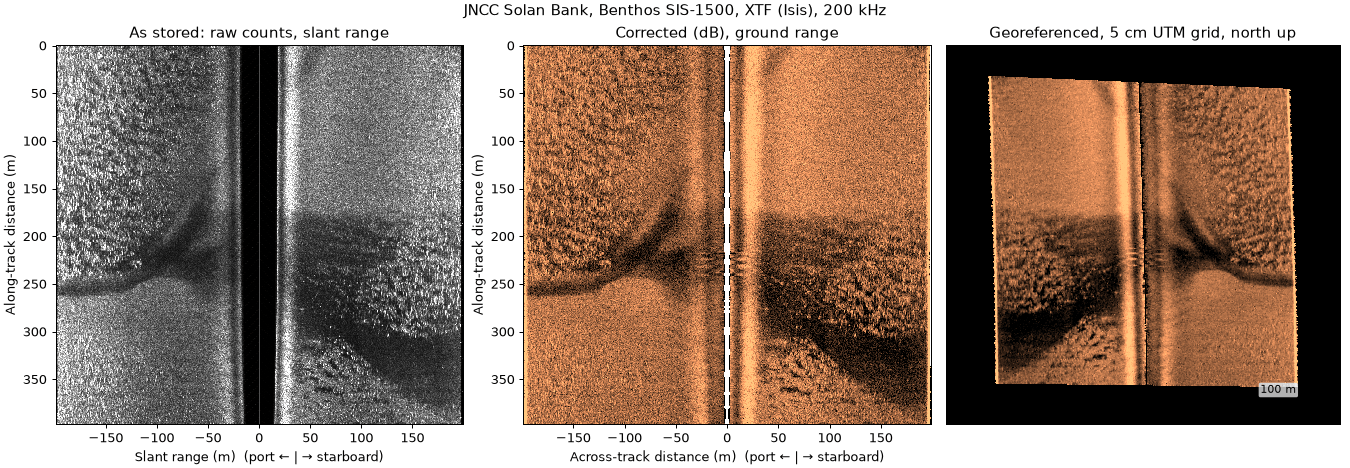
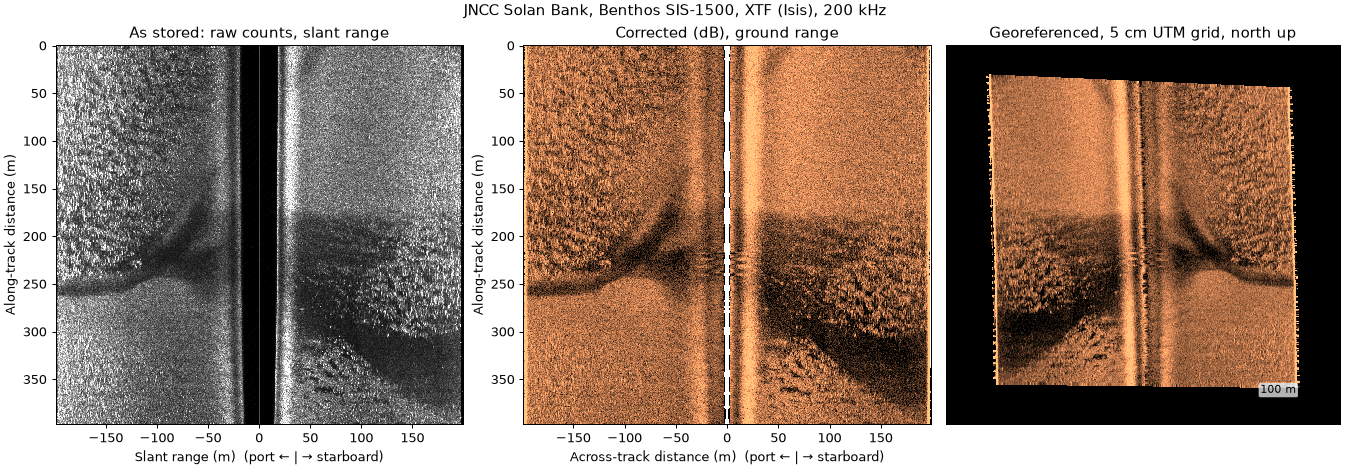
docs(datasets): grid the maps by linear interpolation
The georeferenced panel now grids each section with scipy griddata
(linear) instead of IDW, which averaged a disk of samples into every
5 cm cell and smoothed away detail finer than the ping spacing.

- Cells within twice the 95th-percentile ping step of a sample are
  filled; the single step left rows of empty cells where pings fan out.
- The grid is averaged down to about 800 cells across for drawing; a
  5 cm grid of a 400 m swath drawn into a few hundred pixels aliased
  into speckle.
- Captions name the method. All nine figures regenerated.

Changed region(s): [[0.7156, 0.1496, 0.9644, 0.8376]]

diff --git a/docs/_scripts/public_datasets_figures.py b/docs/_scripts/public_datasets_figures.py
@@ -29,7 +29,9 @@ The figure, same pings in every panel:
 - Corrected: after steps 2-5, dB, against across-track ground range.
 - Georeferenced: the section gridded on UTM at
   :func:`sidescanpy.grids.recommend_resolution` (half the finer native
-  spacing, at least 5 cm), north up.
+  spacing, at least 5 cm) by linear interpolation between the samples
+  (``scipy.interpolate.griddata``), north up, averaged down to the
+  panel's resolution for drawing.
 
 For each dataset it also writes ``<name>_caption.md``, the compact list
 of corrections and parameters taken from the processing history, which
@@ -66,7 +68,14 @@ from sidescanpy.analysis import measure_ping_geometry  # noqa: E402
 from sidescanpy.analysis.characterize import characterize_values, infer_units  # noqa: E402
 from sidescanpy.core.history import read_history  # noqa: E402
 from sidescanpy.core.units import FLOOR_DB  # noqa: E402
-from sidescanpy.grids import grid_channel, recommend_resolution  # noqa: E402
+from sidescanpy.export.geometric_window import interpolate_scattered  # noqa: E402
+from sidescanpy.grids import (  # noqa: E402
+    GridDefinition,
+    SideScanGriddedRaster,
+    bbox_from_channel_dataset,
+    recommend_resolution,
+    utm_grid_from_wgs84_bbox,
+)
 from sidescanpy.io import read_and_convert  # noqa: E402
 from sidescanpy.log import configure_logging  # noqa: E402
 from sidescanpy.processing import (  # noqa: E402
@@ -211,6 +220,52 @@ def pick_section(ds, swath_m, target=None):
     return slice(int(sel[0]), int(sel[-1]) + 1), how
 
 
+def grid_linear(part, cell, max_fill_m):
+    """Grid a section on UTM by linear interpolation between its samples.
+
+    ``scipy.interpolate.griddata`` (through
+    :func:`sidescanpy.export.geometric_window.interpolate_scattered`), so
+    each cell takes its value from the samples around it without
+    averaging them, which keeps the detail at cells finer than the ping
+    spacing. Cells farther than ``max_fill_m`` from every sample are NaN.
+    """
+    grid_def = utm_grid_from_wgs84_bbox(bbox_from_channel_dataset(part), resolution_m=cell)
+    values = part["backscatter_intensity"].values.astype(np.float64).ravel()
+    lat = part["latitude_per_sample"].values.astype(np.float64).ravel()
+    lon = part["longitude_per_sample"].values.astype(np.float64).ravel()
+    ok = np.isfinite(values) & np.isfinite(lat) & np.isfinite(lon)
+    easting, northing = pyproj.Transformer.from_crs("EPSG:4326", grid_def.crs, always_xy=True).transform(
+        lon[ok], lat[ok])
+    ys, xs = grid_def.get_grid_centers()
+    grid = interpolate_scattered(np.column_stack([northing, easting]), values[ok],
+                                 np.column_stack([ys.ravel(), xs.ravel()]), interp_method="linear",
+                                 max_fill_distance_m=max_fill_m).reshape(ys.shape)
+    return SideScanGriddedRaster(grid_def=grid_def, backscatter=grid, units="dB")
+
+
+def for_display(raster, max_cells=800):
+    """Average a fine grid down to about ``max_cells`` across, for drawing.
+
+    A 5 cm grid of a 400 m swath is 8000 cells across; drawn into a panel
+    a few hundred pixels wide, matplotlib shows one cell in twenty and the
+    texture aliases into speckle. Block means (NaN ignored) keep it, as
+    the waterfall panels' coarsening does.
+    """
+    grid = np.asarray(raster.backscatter)
+    k = int(np.ceil(max(grid.shape) / max_cells))
+    if k <= 1:
+        return raster
+    rows, cols = grid.shape[0] // k, grid.shape[1] // k
+    with warnings.catch_warnings():
+        warnings.simplefilter("ignore", RuntimeWarning)   # all-NaN blocks off the swath
+        means = np.nanmean(grid[:rows * k, :cols * k].reshape(rows, k, cols, k), axis=(1, 3))
+    south, west, _, _ = raster.grid_def.bbox            # projected; row 0 is the south edge
+    res = raster.grid_def.resolution_m * k
+    grid_def = GridDefinition((south, west, south + rows * res, west + cols * res), res,
+                              crs=raster.grid_def.crs)
+    return SideScanGriddedRaster(grid_def=grid_def, backscatter=means, units="dB")
+
+
 def cell_size(part):
     """Finest useful cell: half the finer native spacing, 5 cm to 1 m."""
     r = recommend_resolution(part)
@@ -239,7 +294,7 @@ def caption(ds, section, raw_units, cell, utm, how, name):
     pings = f"pings {section.start}-{section.stop - 1} of {ds.sizes['ping']}"
     return (f"**Raw:** {raw_units}, as stored, slant range. "
             f"**Corrected:** {'; '.join(steps)}. "
-            f"**Georeferenced:** {utm}, {cell * 100:.0f} cm cells. "
+            f"**Georeferenced:** {utm}, {cell * 100:.0f} cm cells, linear interpolation. "
             f"**Section:** {pings}, {how}. "
             f"**Code:** [`public_datasets_figures.py`]({CODE_URL}) `--only {name}`.\n")
 
@@ -253,9 +308,10 @@ def figure(name, raw, ds, freq, label, out, target=None):
     rawview = part.copy()
     rawview["backscatter_intensity"] = raw.isel(ping=narrow)
     cell = cell_size(part)
-    # The search radius has to bridge the widest ordinary gap between pings
-    # (they fan out on turns and with range), so use the 95th-percentile
-    # ping step, not the median.
+    # Cells farther than this from every sample stay empty. It has to bridge
+    # the widest ordinary gap between pings, which is wider at far range
+    # than on the track (they fan out with any change of heading), so use
+    # twice the 95th-percentile ping step on the track, not the median.
     _, steps = along_track(part)
     steps = steps[np.isfinite(steps) & (steps > 0)]
     spacing = float(np.percentile(steps, 95)) if steps.size else (
@@ -263,8 +319,7 @@ def figure(name, raw, ds, freq, label, out, target=None):
     factors = {"ping": max(1, part.sizes["ping"] // 500), "sample": max(1, part.sizes["sample"] // 500)}
     with warnings.catch_warnings():
         warnings.simplefilter("ignore", RuntimeWarning)
-        raster = grid_channel(part, resolution_m=cell, method="idw",
-                              max_search_radius_m=max(spacing, 2 * cell))
+        raster = grid_linear(part, cell, max_fill_m=max(2 * spacing, 2 * cell))
     # Map footprint aspect (north-up). A wide footprint gets its own row.
     rows, cols = np.nonzero(np.isfinite(np.asarray(raster.backscatter)))
     aspect = (np.ptp(cols) + 1) / max(np.ptp(rows) + 1, 1) if rows.size else 1.0
@@ -283,7 +338,7 @@ def figure(name, raw, ds, freq, label, out, target=None):
                        title=f"As stored: {raw_units}, slant range")
         plot_waterfall(part.coarsen(factors, boundary="trim").mean(), x_axis="across_track",
                        y_axis="along_track", ax=ax_c, **STRETCH, title="Corrected (dB), ground range")
-    plot_gridded_raster(raster, fig=fig, ax=ax_g, cmap="copper", **STRETCH, show_colorbar=False,
+    plot_gridded_raster(for_display(raster), fig=fig, ax=ax_g, cmap="copper", **STRETCH, show_colorbar=False,
                         title=f"Georeferenced, {cell * 100:.0f} cm UTM grid, north up")
     ax_g.set_xticks([])
     ax_g.set_yticks([])

diff --git a/docs/assets/datasets/bgs_london_gateway_caption.md b/docs/assets/datasets/bgs_london_gateway_caption.md
@@ -1,1 +1,1 @@
-**Raw:** raw counts, as stored, slant range. **Corrected:** navigation smoothed (20 s); heading from course over ground (file records none); altitude from bottom track; TVG 30 log R + 96 dB/km absorption; flat-seabed slant to ground range; range correction fitted on this line. **Georeferenced:** UTM zone 31N, 5 cm cells. **Section:** pings 947-1995 of 2339, centred on the Dynamo wreck. **Code:** [`public_datasets_figures.py`](https://github.com/rshomberg-research/sidescanpy/blob/main/docs/_scripts/public_datasets_figures.py) `--only bgs_london_gateway`.
+**Raw:** raw counts, as stored, slant range. **Corrected:** navigation smoothed (20 s); heading from course over ground (file records none); altitude from bottom track; TVG 30 log R + 96 dB/km absorption; flat-seabed slant to ground range; range correction fitted on this line. **Georeferenced:** UTM zone 31N, 5 cm cells, linear interpolation. **Section:** pings 947-1995 of 2339, centred on the Dynamo wreck. **Code:** [`public_datasets_figures.py`](https://github.com/rshomberg-research/sidescanpy/blob/main/docs/_scripts/public_datasets_figures.py) `--only bgs_london_gateway`.

diff --git a/docs/assets/datasets/benthicat_caption.md b/docs/assets/datasets/benthicat_caption.md
@@ -1,1 +1,1 @@
-**Raw:** raw counts, as stored, slant range. **Corrected:** navigation smoothed (20 s); altitude from bottom track; TVG 30 log R + no absorption (frequency not recorded); flat-seabed slant to ground range; range correction fitted on this line. **Georeferenced:** UTM zone 31N, 5 cm cells. **Section:** pings 2675-3213 of 10721, most textured straight, jump-free window. **Code:** [`public_datasets_figures.py`](https://github.com/rshomberg-research/sidescanpy/blob/main/docs/_scripts/public_datasets_figures.py) `--only benthicat`.
+**Raw:** raw counts, as stored, slant range. **Corrected:** navigation smoothed (20 s); altitude from bottom track; TVG 30 log R + no absorption (frequency not recorded); flat-seabed slant to ground range; range correction fitted on this line. **Georeferenced:** UTM zone 31N, 5 cm cells, linear interpolation. **Section:** pings 2675-3213 of 10721, most textured straight, jump-free window. **Code:** [`public_datasets_figures.py`](https://github.com/rshomberg-research/sidescanpy/blob/main/docs/_scripts/public_datasets_figures.py) `--only benthicat`.

diff --git a/docs/assets/datasets/jncc_mid_irish_sea_caption.md b/docs/assets/datasets/jncc_mid_irish_sea_caption.md
@@ -1,1 +1,1 @@
-**Raw:** raw counts, as stored, slant range. **Corrected:** navigation smoothed (20 s); altitude from bottom track; TVG 30 log R + 96 dB/km absorption; flat-seabed slant to ground range; range correction fitted on this line. **Georeferenced:** UTM zone 30N, 5 cm cells. **Section:** pings 329-909 of 1234, middle of the line (no straight, jump-free window). **Code:** [`public_datasets_figures.py`](https://github.com/rshomberg-research/sidescanpy/blob/main/docs/_scripts/public_datasets_figures.py) `--only jncc_mid_irish_sea`.
+**Raw:** raw counts, as stored, slant range. **Corrected:** navigation smoothed (20 s); altitude from bottom track; TVG 30 log R + 96 dB/km absorption; flat-seabed slant to ground range; range correction fitted on this line. **Georeferenced:** UTM zone 30N, 5 cm cells, linear interpolation. **Section:** pings 329-909 of 1234, middle of the line (no straight, jump-free window). **Code:** [`public_datasets_figures.py`](https://github.com/rshomberg-research/sidescanpy/blob/main/docs/_scripts/public_datasets_figures.py) `--only jncc_mid_irish_sea`.

diff --git a/docs/assets/datasets/jncc_wight_barfleur_caption.md b/docs/assets/datasets/jncc_wight_barfleur_caption.md
@@ -1,1 +1,1 @@
-**Raw:** raw counts, as stored, slant range. **Corrected:** navigation smoothed (20 s); altitude from bottom track; TVG 30 log R + 140 dB/km absorption; flat-seabed slant to ground range; range correction fitted on this line. **Georeferenced:** UTM zone 30N, 5 cm cells. **Section:** pings 0-287 of 288, middle of the line (no straight, jump-free window). **Code:** [`public_datasets_figures.py`](https://github.com/rshomberg-research/sidescanpy/blob/main/docs/_scripts/public_datasets_figures.py) `--only jncc_wight_barfleur`.
+**Raw:** raw counts, as stored, slant range. **Corrected:** navigation smoothed (20 s); altitude from bottom track; TVG 30 log R + 140 dB/km absorption; flat-seabed slant to ground range; range correction fitted on this line. **Georeferenced:** UTM zone 30N, 5 cm cells, linear interpolation. **Section:** pings 0-287 of 288, middle of the line (no straight, jump-free window). **Code:** [`public_datasets_figures.py`](https://github.com/rshomberg-research/sidescanpy/blob/main/docs/_scripts/public_datasets_figures.py) `--only jncc_wight_barfleur`.

diff --git a/docs/assets/datasets/usfws_chena_caption.md b/docs/assets/datasets/usfws_chena_caption.md
@@ -1,1 +1,1 @@
-**Raw:** raw counts, as stored, slant range. **Corrected:** navigation smoothed (20 s); altitude from bottom track; TVG 30 log R + 97 dB/km absorption; flat-seabed slant to ground range; range correction fitted on this line. **Georeferenced:** UTM zone 6N, 5 cm cells. **Section:** pings 3152-3547 of 6559, centred on the river bank of the Humminbird example. **Code:** [`public_datasets_figures.py`](https://github.com/rshomberg-research/sidescanpy/blob/main/docs/_scripts/public_datasets_figures.py) `--only usfws_chena`.
+**Raw:** raw counts, as stored, slant range. **Corrected:** navigation smoothed (20 s); altitude from bottom track; TVG 30 log R + 97 dB/km absorption; flat-seabed slant to ground range; range correction fitted on this line. **Georeferenced:** UTM zone 6N, 5 cm cells, linear interpolation. **Section:** pings 3152-3547 of 6559, centred on the river bank of the Humminbird example. **Code:** [`public_datasets_figures.py`](https://github.com/rshomberg-research/sidescanpy/blob/main/docs/_scripts/public_datasets_figures.py) `--only usfws_chena`.

diff --git a/docs/assets/datasets/jncc_east_rockall_caption.md b/docs/assets/datasets/jncc_east_rockall_caption.md
@@ -1,1 +1,1 @@
-**Raw:** raw counts, as stored, slant range. **Corrected:** navigation smoothed (20 s); altitude from bottom track; TVG 30 log R + 99 dB/km absorption; flat-seabed slant to ground range; range correction fitted on this line. **Georeferenced:** UTM zone 28N, 7 cm cells. **Section:** pings 1230-1694 of 8717, most textured straight, jump-free window. **Code:** [`public_datasets_figures.py`](https://github.com/rshomberg-research/sidescanpy/blob/main/docs/_scripts/public_datasets_figures.py) `--only jncc_east_rockall`.
+**Raw:** raw counts, as stored, slant range. **Corrected:** navigation smoothed (20 s); altitude from bottom track; TVG 30 log R + 99 dB/km absorption; flat-seabed slant to ground range; range correction fitted on this line. **Georeferenced:** UTM zone 28N, 7 cm cells, linear interpolation. **Section:** pings 1230-1694 of 8717, most textured straight, jump-free window. **Code:** [`public_datasets_figures.py`](https://github.com/rshomberg-research/sidescanpy/blob/main/docs/_scripts/public_datasets_figures.py) `--only jncc_east_rockall`.

diff --git a/docs/assets/datasets/jncc_solan_bank_caption.md b/docs/assets/datasets/jncc_solan_bank_caption.md
@@ -1,1 +1,1 @@
-**Raw:** raw counts, as stored, slant range. **Corrected:** navigation smoothed (20 s); altitude from bottom track; TVG 30 log R + 54 dB/km absorption; flat-seabed slant to ground range; range correction fitted on this line. **Georeferenced:** UTM zone 30N, 5 cm cells. **Section:** pings 2580-3033 of 9189, most textured straight, jump-free window. **Code:** [`public_datasets_figures.py`](https://github.com/rshomberg-research/sidescanpy/blob/main/docs/_scripts/public_datasets_figures.py) `--only jncc_solan_bank`.
+**Raw:** raw counts, as stored, slant range. **Corrected:** navigation smoothed (20 s); altitude from bottom track; TVG 30 log R + 54 dB/km absorption; flat-seabed slant to ground range; range correction fitted on this line. **Georeferenced:** UTM zone 30N, 5 cm cells, linear interpolation. **Section:** pings 2580-3033 of 9189, most textured straight, jump-free window. **Code:** [`public_datasets_figures.py`](https://github.com/rshomberg-research/sidescanpy/blob/main/docs/_scripts/public_datasets_figures.py) `--only jncc_solan_bank`.

diff --git a/docs/assets/datasets/awi_ofobs_ps124_caption.md b/docs/assets/datasets/awi_ofobs_ps124_caption.md
@@ -1,1 +1,1 @@
-**Raw:** raw counts, as stored, slant range. **Corrected:** navigation smoothed (20 s); altitude from bottom track; TVG 30 log R + 131 dB/km absorption; flat-seabed slant to ground range; range correction fitted on this line. **Georeferenced:** UTM zone 25S, 5 cm cells. **Section:** pings 0-1371 of 1372, most textured straight, jump-free window. **Code:** [`public_datasets_figures.py`](https://github.com/rshomberg-research/sidescanpy/blob/main/docs/_scripts/public_datasets_figures.py) `--only awi_ofobs_ps124`.
+**Raw:** raw counts, as stored, slant range. **Corrected:** navigation smoothed (20 s); altitude from bottom track; TVG 30 log R + 131 dB/km absorption; flat-seabed slant to ground range; range correction fitted on this line. **Georeferenced:** UTM zone 25S, 5 cm cells, linear interpolation. **Section:** pings 0-1371 of 1372, most textured straight, jump-free window. **Code:** [`public_datasets_figures.py`](https://github.com/rshomberg-research/sidescanpy/blob/main/docs/_scripts/public_datasets_figures.py) `--only awi_ofobs_ps124`.

diff --git a/docs/assets/datasets/usgs_grand_bay_caption.md b/docs/assets/datasets/usgs_grand_bay_caption.md
@@ -1,1 +1,1 @@
-**Raw:** raw counts, as stored, slant range. **Corrected:** navigation smoothed (20 s); altitude from bottom track; TVG 30 log R + 34 dB/km absorption; flat-seabed slant to ground range; range correction fitted on this line. **Georeferenced:** UTM zone 16N, 5 cm cells. **Section:** pings 0-296 of 297, most textured straight, jump-free window. **Code:** [`public_datasets_figures.py`](https://github.com/rshomberg-research/sidescanpy/blob/main/docs/_scripts/public_datasets_figures.py) `--only usgs_grand_bay`.
+**Raw:** raw counts, as stored, slant range. **Corrected:** navigation smoothed (20 s); altitude from bottom track; TVG 30 log R + 34 dB/km absorption; flat-seabed slant to ground range; range correction fitted on this line. **Georeferenced:** UTM zone 16N, 5 cm cells, linear interpolation. **Section:** pings 0-296 of 297, most textured straight, jump-free window. **Code:** [`public_datasets_figures.py`](https://github.com/rshomberg-research/sidescanpy/blob/main/docs/_scripts/public_datasets_figures.py) `--only usgs_grand_bay`.
